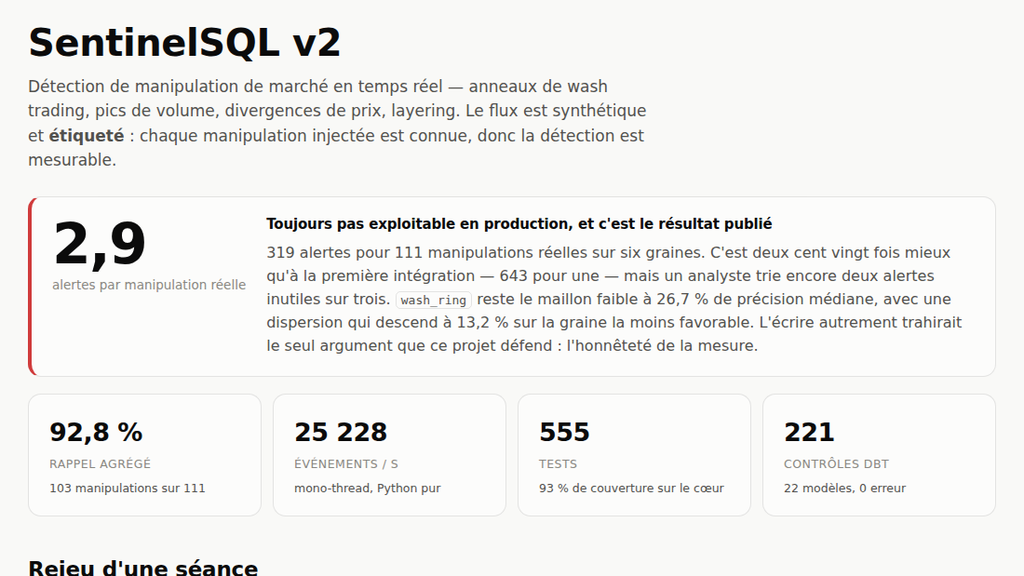
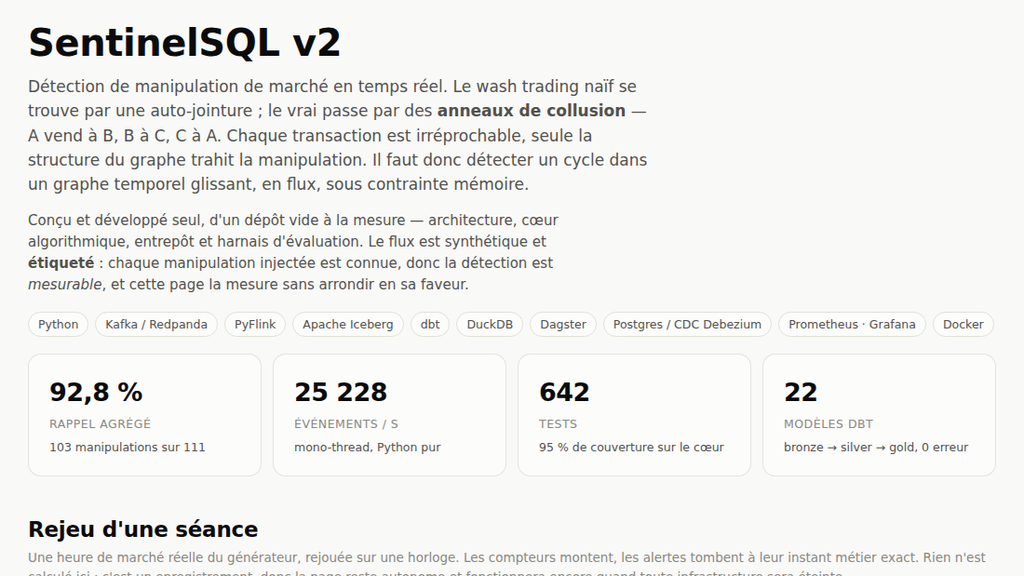
Page SentinelSQL v2 restructurée, vignette régénérée
Reprend la page de restitution depuis sentinel-v2 (ef9c2b7) : hero
énonçant le problème, le rôle et la pile, KPI ouvrant sur les forces,
limites en section dédiée, justifications repliées.

La vignette est recapturée sur le nouveau hero — elle montrait encore
555 tests. Les chiffres du texte de la carte concordent désormais avec
elle, ils sont donc rétablis.

Claude-Session: https://claude.ai/code/session_01A3LmYC3DvGUUaAQLPhHumS

diff --git a/public/projets/sentinel-v2/index.html b/public/projets/sentinel-v2/index.html
@@ -110,6 +110,19 @@ td.num, th.num { text-align:right; font-variant-numeric:tabular-nums; }
 tbody tr:last-child td { border-bottom:0; }
 
 /* ----------------------------------------------------------------- statut */
+.stack { display:flex; flex-wrap:wrap; gap:7px; margin-top:16px; }
+.stack span { font-size:12.5px; padding:3px 10px; border-radius:999px;
+  border:1px solid var(--grid); color:var(--ink-2); background:var(--surface); }
+.role { margin-top:14px; font-size:15px; color:var(--ink-2); max-width:62ch; }
+details.more { margin-top:14px; border-top:1px solid var(--grid); padding-top:10px; }
+details.more > summary { cursor:pointer; font-size:14px; color:var(--ink-2);
+  list-style:none; display:flex; align-items:center; gap:7px; }
+details.more > summary::-webkit-details-marker { display:none; }
+details.more > summary::before { content:"▸"; color:var(--muted); }
+details.more[open] > summary::before { content:"▾"; }
+details.more > summary:hover { color:var(--ink); }
+details.more[open] > summary { margin-bottom:10px; }
+details.more section { margin-top:0; }
 .tag { display:inline-flex; align-items:center; gap:6px; font-size:12.5px;
        font-weight:600; padding:2px 9px; border-radius:999px;
        border:1px solid var(--ring); }
@@ -228,38 +241,37 @@ footer { margin-top:56px; padding-top:20px; border-top:1px solid var(--grid);
 
   <header>
     <h1>SentinelSQL&nbsp;v2</h1>
-    <p class="lede">Détection de manipulation de marché en temps réel — anneaux de
-    wash trading, pics de volume, divergences de prix, layering. Le flux est
-    synthétique et <strong>étiqueté</strong> : chaque manipulation injectée est
-    connue, donc la détection est mesurable.</p>
+    <p class="lede">Détection de manipulation de marché en temps réel. Le wash
+    trading naïf se trouve par une auto-jointure&nbsp;; le vrai passe par des
+    <strong>anneaux de collusion</strong> — A vend à B, B à C, C à A. Chaque
+    transaction est irréprochable, seule la structure du graphe trahit la
+    manipulation. Il faut donc détecter un cycle dans un graphe temporel
+    glissant, en flux, sous contrainte mémoire.</p>
+
+    <p class="role">Conçu et développé seul, d'un dépôt vide à la mesure —
+    architecture, cœur algorithmique, entrepôt et harnais d'évaluation. Le flux
+    est synthétique et <strong>étiqueté</strong>&nbsp;: chaque manipulation
+    injectée est connue, donc la détection est <em>mesurable</em>, et cette page
+    la mesure sans arrondir en sa faveur.</p>
+
+    <div class="stack">
+      <span>Python</span><span>Kafka / Redpanda</span><span>PyFlink</span>
+      <span>Apache Iceberg</span><span>dbt</span><span>DuckDB</span>
+      <span>Dagster</span><span>Postgres / CDC Debezium</span>
+      <span>Prometheus · Grafana</span><span>Docker</span>
+    </div>
   </header>
 
-  <div class="card verdict">
-    <div>
-      <div class="hero" id="hero">2,9</div>
-      <div class="sub">alertes par manipulation réelle</div>
-    </div>
-    <div>
-      <h3>Toujours pas exploitable en production, et c'est le résultat publié</h3>
-      <p>319 alertes pour 111 manipulations réelles sur six graines. C'est
-      deux cent vingt fois mieux qu'à la première intégration — 643 pour une —
-      mais un analyste trie encore deux alertes inutiles sur trois. <code>wash_ring</code> reste le
-      maillon faible à 26,7&nbsp;% de précision médiane, avec une dispersion qui
-      descend à 13,2&nbsp;% sur la graine la moins favorable. L'écrire autrement
-      trahirait le seul argument que ce projet défend&nbsp;: l'honnêteté de la
-      mesure.</p>
-    </div>
-  </div>
 
   <div class="kpis">
     <div class="card kpi"><div class="v">92,8&nbsp;%</div><div class="k">Rappel agrégé</div>
       <div class="n">103 manipulations sur 111</div></div>
     <div class="card kpi"><div class="v">25&nbsp;228</div><div class="k">Événements / s</div>
       <div class="n">mono-thread, Python pur</div></div>
-    <div class="card kpi"><div class="v">555</div><div class="k">Tests</div>
-      <div class="n">93 % de couverture sur le cœur</div></div>
-    <div class="card kpi"><div class="v">221</div><div class="k">Contrôles dbt</div>
-      <div class="n">22 modèles, 0 erreur</div></div>
+    <div class="card kpi"><div class="v">642</div><div class="k">Tests</div>
+      <div class="n">95 % de couverture sur le cœur</div></div>
+    <div class="card kpi"><div class="v">22</div><div class="k">Modèles dbt</div>
+      <div class="n">bronze → silver → gold, 0 erreur</div></div>
   </div>
 
   <!-- ============================================================== REJEU -->
@@ -404,23 +416,26 @@ footer { margin-top:56px; padding-top:20px; border-top:1px solid var(--grid);
       <div class="warnbox" id="t-note"></div>
     </div>
 
-    <p class="sub" style="margin-top:12px">Rien n'est simulé ici. Les
-    <strong id="t-emb">—</strong> fermetures de cycle embarquées portent les valeurs
-    mesurées par le détecteur réel, et le navigateur rejoue la chaîne complète —
-    critères, récurrence, déduplication, appariement à la vérité terrain.
-    <code>export_tuning.py --verifier</code> contrôle qu'aux valeurs retenues ce
-    rejeu retrouve <em>clé par clé</em> les alertes du détecteur, et les mêmes
-    rappel et précision que le rapport d'évaluation. Sans ce contrôle, les
-    curseurs afficheraient des chiffres plausibles et faux.</p>
-
-    <p class="sub" style="margin-top:10px"><strong>Une séance, pas la ligne de
-    base.</strong> Ce panneau et le rejeu ci-dessus rejouent la même séance, celle
-    de la graine&nbsp;7 — la plus riche des six mesurées, et la seule où un anneau
-    échappe réellement au détecteur. Sa précision de 34,6&nbsp;% n'est pas le
-    chiffre du projet&nbsp;: celui-ci est une médiane sur six graines, affichée
-    juste en dessous avec son étendue. La séance la plus flatteuse des six monte à
-    85,7&nbsp;% — bâtir la page dessus aurait reproduit une erreur de méthode déjà
-    corrigée deux fois ici.</p>
+    <details class="more">
+      <summary>Pourquoi ces curseurs ne mentent pas</summary>
+      <p class="sub" style="margin-top:12px">Rien n'est simulé ici. Les
+      <strong id="t-emb">—</strong> fermetures de cycle embarquées portent les valeurs
+      mesurées par le détecteur réel, et le navigateur rejoue la chaîne complète —
+      critères, récurrence, déduplication, appariement à la vérité terrain.
+      <code>export_tuning.py --verifier</code> contrôle qu'aux valeurs retenues ce
+      rejeu retrouve <em>clé par clé</em> les alertes du détecteur, et les mêmes
+      rappel et précision que le rapport d'évaluation. Sans ce contrôle, les
+      curseurs afficheraient des chiffres plausibles et faux.</p>
+  
+      <p class="sub" style="margin-top:10px"><strong>Une séance, pas la ligne de
+      base.</strong> Ce panneau et le rejeu ci-dessus rejouent la même séance, celle
+      de la graine&nbsp;7 — la plus riche des six mesurées, et la seule où un anneau
+      échappe réellement au détecteur. Sa précision de 34,6&nbsp;% n'est pas le
+      chiffre du projet&nbsp;: celui-ci est une médiane sur six graines, affichée
+      juste en dessous avec son étendue. La séance la plus flatteuse des six monte à
+      85,7&nbsp;% — bâtir la page dessus aurait reproduit une erreur de méthode déjà
+      corrigée deux fois ici.</p>
+    </details>
   </section>
 
   <!-- ============================================================ QUALITÉ -->
@@ -453,21 +468,40 @@ footer { margin-top:56px; padding-top:20px; border-top:1px solid var(--grid);
     <div id="tbl" hidden style="margin-top:12px" class="card"></div>
   </section>
 
-  <!-- ========================================================= TRAJECTOIRE -->
+  <!-- ============================================================== LIMITES -->
   <section>
-    <h2>Trois intégrations</h2>
-    <p class="sub">Nombre d'alertes émises pour la même heure de marché. Échelle
-    logarithmique — sans elle, les deux derniers points seraient invisibles.</p>
-    <figure class="card scroll" style="margin-top:14px">
-      <svg id="traj" viewBox="0 0 720 230" role="img"
-           aria-label="Alertes émises aux trois intégrations : 9640, puis 2777, puis 63"></svg>
-    </figure>
-    <p class="sub" style="margin-top:10px">
-      Les deux premiers points sont des mesures sur <em>une</em> graine ; le
-      troisième est une médiane sur six. La méthode a changé en cours de route,
-      précisément parce que la première était insuffisante.
+    <h2>Ce que ces chiffres ne disent pas</h2>
+    <p class="sub">Le rappel est solide. La précision ne l'est pas, et la publier
+    telle quelle est le seul argument que ce projet défend.</p>
+
+  <div class="card verdict" style="margin-top:16px">
+    <div>
+      <div class="hero" id="hero">2,9</div>
+      <div class="sub">alertes par manipulation réelle</div>
+    </div>
+    <div>
+      <h3>Toujours pas exploitable en production, et c'est le résultat publié</h3>
+      <p>319 alertes pour 111 manipulations réelles sur six graines. C'est
+      deux cent vingt fois mieux qu'à la première intégration — 643 pour une —
+      mais un analyste trie encore deux alertes inutiles sur trois. <code>wash_ring</code> reste le
+      maillon faible à 26,7&nbsp;% de précision médiane, avec une dispersion qui
+      descend à 13,2&nbsp;% sur la graine la moins favorable. L'écrire autrement
+      trahirait le seul argument que ce projet défend&nbsp;: l'honnêteté de la
+      mesure.</p>
+    </div>
+  </div>
+
+    <p class="sub" style="margin-top:14px">
+      <strong>Une limite qui ne se corrige pas&nbsp;:</strong> le générateur, les
+      détecteurs et la politique de correspondance sont écrits par la même main.
+      Les chiffres mesurent donc « ce détecteur trouve ce que ce générateur
+      injecte ». Une manipulation d'une forme non anticipée serait invisible
+      <em>et</em> non mesurable. Aucune quantité de tests ne lève cette
+      circularité — seules des données réelles le feraient.
     </p>
   </section>
+
+  <!-- ========================================================= TRAJECTOIRE -->
 
   <!-- ================================================================ GOLD -->
   <section>
@@ -499,44 +533,57 @@ footer { margin-top:56px; padding-top:20px; border-top:1px solid var(--grid);
   </section>
 
   <!-- =============================================================== ÉTAT -->
-  <section>
-    <h2>Vérifié, et jamais exécuté</h2>
-    <p class="sub">La distinction est tenue partout dans le projet. Elle est la
-    seule raison pour laquelle les chiffres ci-dessus valent quelque chose.</p>
-    <div class="grid2" style="margin-top:14px">
-      <div class="card">
-        <span class="tag ok">✓ exécuté et vérifié</span>
-        <ul class="tight">
-          <li>506 tests, 93&nbsp;% de couverture sur le cœur de détection</li>
-          <li><code>dbt build</code> — 22 modèles, 199 tests, 0 erreur</li>
-          <li>Job Flink — même clé d'alerte que le cœur Python pur</li>
-          <li>Générateur déterministe, octet pour octet, à quatre vitesses</li>
-          <li><strong>Pile complète&nbsp;: 9 services sains</strong> — Redpanda,
-              Postgres, Debezium, MinIO, Flink, Prometheus, Grafana</li>
-          <li>CDC vérifié&nbsp;: un <code>UPDATE</code> Postgres arrive dans Kafka,
-              décimaux en clair et non en base64</li>
-        </ul>
+  <details class="more">
+    <summary>La trajectoire du projet : 9&nbsp;640 alertes, puis 2&nbsp;777, puis 63</summary>
+    <section>
+      <h2>Trois intégrations</h2>
+      <p class="sub">Nombre d'alertes émises pour la même heure de marché. Échelle
+      logarithmique — sans elle, les deux derniers points seraient invisibles.</p>
+      <figure class="card scroll" style="margin-top:14px">
+        <svg id="traj" viewBox="0 0 720 230" role="img"
+             aria-label="Alertes émises aux trois intégrations : 9640, puis 2777, puis 63"></svg>
+      </figure>
+      <p class="sub" style="margin-top:10px">
+        Les deux premiers points sont des mesures sur <em>une</em> graine ; le
+        troisième est une médiane sur six. La méthode a changé en cours de route,
+        précisément parce que la première était insuffisante.
+      </p>
+    </section>
+  </details>
+
+  <details class="more">
+    <summary>Ce qui a réellement tourné, et ce qui est écrit sans avoir jamais été lancé</summary>
+    <section>
+      <h2>Vérifié, et jamais exécuté</h2>
+      <p class="sub">La distinction est tenue partout dans le projet. Elle est la
+      seule raison pour laquelle les chiffres ci-dessus valent quelque chose.</p>
+      <div class="grid2" style="margin-top:14px">
+        <div class="card">
+          <span class="tag ok">✓ exécuté et vérifié</span>
+          <ul class="tight">
+            <li>642 tests, 95&nbsp;% de couverture sur le cœur de détection</li>
+            <li><code>dbt build</code> — 22 modèles, 199 tests, 0 erreur</li>
+            <li>Job Flink — même clé d'alerte que le cœur Python pur</li>
+            <li>Générateur déterministe, octet pour octet, à quatre vitesses</li>
+            <li><strong>Pile complète&nbsp;: 9 services sains</strong> — Redpanda,
+                Postgres, Debezium, MinIO, Flink, Prometheus, Grafana</li>
+            <li>CDC vérifié&nbsp;: un <code>UPDATE</code> Postgres arrive dans Kafka,
+                décimaux en clair et non en base64</li>
+          </ul>
+        </div>
+        <div class="card">
+          <span class="tag no">✕ écrit, jamais lancé</span>
+          <ul class="tight">
+            <li>Job Flink <em>sur le cluster</em> — il tourne en mini-cluster local</li>
+            <li>Connecteurs Kafka de Flink, points de reprise, parallélisme&nbsp;&gt;&nbsp;1</li>
+            <li><code>IcebergBronzeWriter</code> — les buckets existent, rien n'y est écrit</li>
+            <li>Chemin dbt <em>via la pile</em> — dbt s'exécute en local</li>
+            <li>Reprise sur panne, montée en charge réelle</li>
+          </ul>
+        </div>
       </div>
-      <div class="card">
-        <span class="tag no">✕ écrit, jamais lancé</span>
-        <ul class="tight">
-          <li>Job Flink <em>sur le cluster</em> — il tourne en mini-cluster local</li>
-          <li>Connecteurs Kafka de Flink, points de reprise, parallélisme&nbsp;&gt;&nbsp;1</li>
-          <li><code>IcebergBronzeWriter</code> — les buckets existent, rien n'y est écrit</li>
-          <li>Chemin dbt <em>via la pile</em> — dbt s'exécute en local</li>
-          <li>Reprise sur panne, montée en charge réelle</li>
-        </ul>
-      </div>
-    </div>
-    <p class="sub" style="margin-top:14px">
-      <strong>Une limite qui ne se corrige pas&nbsp;:</strong> le générateur, les
-      détecteurs et la politique de correspondance sont écrits par la même main.
-      Les chiffres mesurent donc « ce détecteur trouve ce que ce générateur
-      injecte ». Une manipulation d'une forme non anticipée serait invisible
-      <em>et</em> non mesurable. Aucune quantité de tests ne lève cette
-      circularité — seules des données réelles le feraient.
-    </p>
-  </section>
+    </section>
+  </details>
 
   <footer>
     Charles Baudoux — MIAGE, Université&nbsp;Paris&nbsp;Dauphine-PSL.

diff --git a/src/components/organisms/ProjectsShowcase.tsx b/src/components/organisms/ProjectsShowcase.tsx
@@ -22,7 +22,7 @@ const ProjectsShowcase: React.FC = () => {
       highlights: [
         'Redpanda → Flink → Iceberg, dbt (22 modèles), Dagster, Prometheus/Grafana',
         'Détection de cycles dans un graphe temporel glissant, état borné et alertes idempotentes',
-        '11 décisions d’architecture documentées, chacune avec son coût assumé',
+        '642 tests, 95 % de couverture sur le cœur, 11 décisions d’architecture documentées',
         'Rappel et précision mesurés sur 6 graines — jamais sur une seule',
       ],
       technologies: ['Python', 'Kafka', 'Flink', 'dbt', 'DuckDB', 'Iceberg', 'Dagster', 'Docker'],
